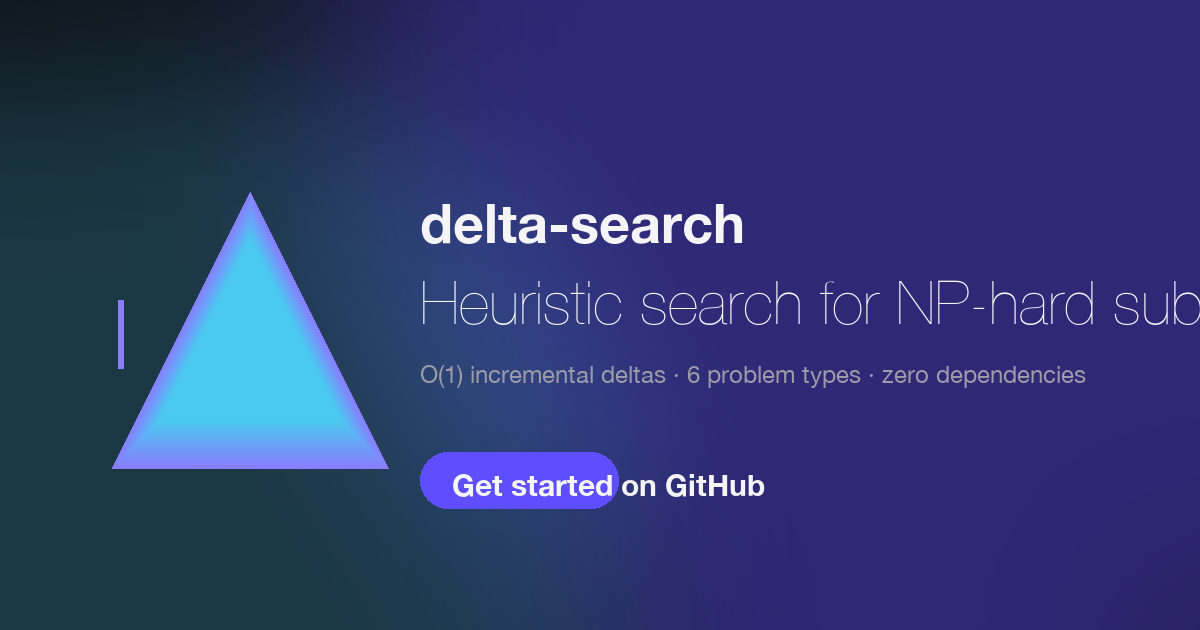
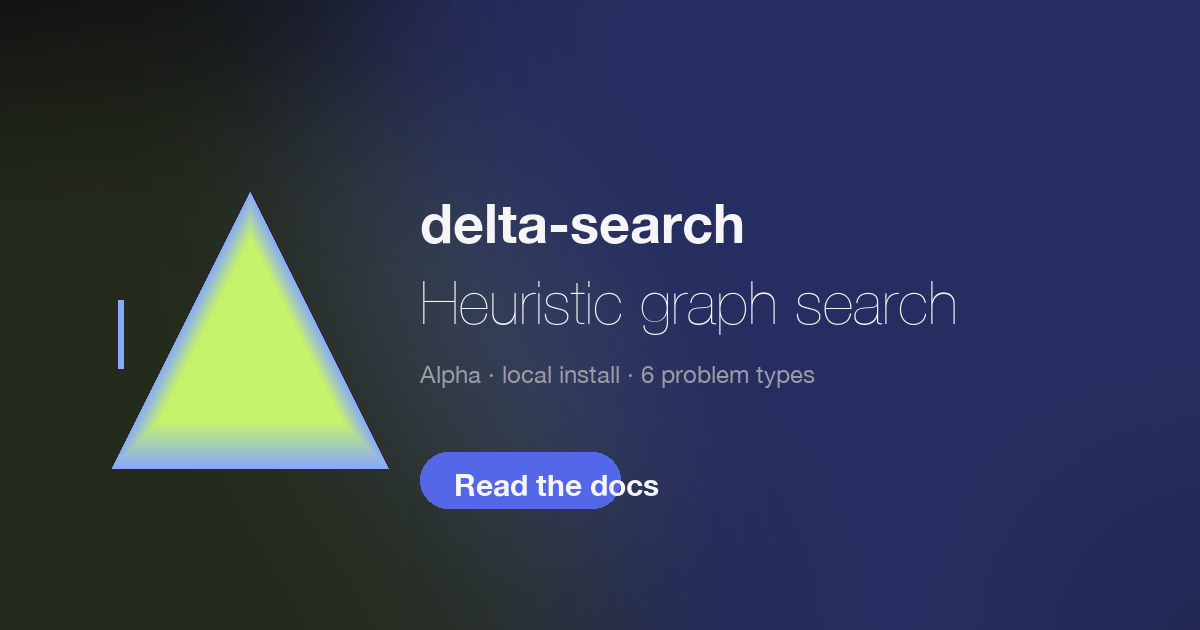
chore(site): refresh generated alpha visuals

diff --git a/site/scripts/generate_assets.py b/site/scripts/generate_assets.py
@@ -27,6 +27,11 @@ import matplotlib.pyplot as plt
 from matplotlib.patches import Circle
 from PIL import Image, ImageDraw, ImageFilter, ImageFont
 
+try:
+    import networkx as nx
+except ImportError:  # pragma: no cover - asset generation has an optional path
+    nx = None
+
 from delta_search import (
     Action,
     DefaultState,
@@ -49,8 +54,8 @@ VIOLET = "#5367E8"
 CYAN = "#B8F36B"
 EDGE_INPUT = "#2A2A34"
 NODE_INPUT = "#202028"
-EDGE_SOLUTION = "#6E8CFF"
-NODE_SOLUTION = "#A8A0FF"
+EDGE_SOLUTION = "#88A0FF"
+NODE_SOLUTION = "#C5F36C"
 
 plt.rcParams.update(
     {
@@ -74,7 +79,8 @@ class PlanarDemoProblem(MaximumPlanarSubgraphProblem):
 
     The stock implementation seeds an empty subgraph for this monotone
     (edge-add-only) problem; for the demo we seed all vertices and let
-    the solver select a maximum-edge planar subgraph on top of them.
+    the solver select a maximum-edge subgraph screened by the repository's
+    Euler-bound feasibility heuristic.
     """
 
     def evaluate_initial_state(self, graph: Graph[int]) -> DefaultState[int]:
@@ -180,6 +186,66 @@ def force_layout(
     }
 
 
+def representative_edges(
+    graph: Graph[int], extra_edges: int = 42
+) -> set[frozenset[int]]:
+    """Return a readable, connected sample of a solved graph's edges.
+
+    A 62-node planar solution can contain 180 edges. Drawing all of them makes
+    the marketing image a hairball, so the image shows a spanning forest plus a
+    deterministic sample of additional retained edges. The solve itself is not
+    truncated; this is only a presentation view.
+    """
+    selected: set[frozenset[int]] = set()
+    visited: set[int] = set()
+
+    for root in sorted(graph.nodes):
+        if root in visited:
+            continue
+        visited.add(root)
+        queue = [root]
+        while queue:
+            node = queue.pop(0)
+            for neighbor in sorted(graph.neighbors(node)):
+                if neighbor in visited:
+                    continue
+                visited.add(neighbor)
+                queue.append(neighbor)
+                selected.add(frozenset((node, neighbor)))
+
+    remaining = [
+        frozenset((u, v))
+        for u, v in graph.sorted_edges()
+        if frozenset((u, v)) not in selected
+    ]
+    selected.update(remaining[:extra_edges])
+    return selected
+
+
+def solution_layout(
+    solution: Graph[int], seed: int = 3
+) -> dict[int, tuple[float, float]]:
+    """Prefer a planar embedding, with a deterministic force fallback."""
+    if nx is not None:
+        nx_graph = nx.Graph()
+        nx_graph.add_nodes_from(solution.nodes)
+        nx_graph.add_edges_from(solution.sorted_edges())
+        if nx.check_planarity(nx_graph)[0]:
+            raw = nx.planar_layout(nx_graph, scale=1.0)
+            xs = [float(raw[node][0]) for node in solution.nodes]
+            ys = [float(raw[node][1]) for node in solution.nodes]
+            x_min, x_max = min(xs), max(xs)
+            y_min, y_max = min(ys), max(ys)
+            return {
+                node: (
+                    (float(raw[node][0]) - x_min) / max(x_max - x_min, 1e-9),
+                    1 - (float(raw[node][1]) - y_min) / max(y_max - y_min, 1e-9),
+                )
+                for node in solution.nodes
+            }
+    return force_layout(solution, seed=seed, iters=1200)
+
+
 # --- 3. render the solved graph --------------------------------------------
 def render_graph(
     graph: Graph[int], solution: Graph[int], pos: dict[int, tuple[float, float]]
@@ -193,12 +259,19 @@ def render_graph(
 
     sol_nodes = set(solution.nodes)
     sol_edges = {frozenset((u, v)) for u, v in solution.sorted_edges()}
+    display_edges = representative_edges(solution)
+    candidate_edges = [
+        frozenset((u, v))
+        for u, v in graph.sorted_edges()
+        if frozenset((u, v)) not in sol_edges
+    ]
+    display_edges.update(candidate_edges[:24])
 
     for u in graph.nodes:
         if u not in pos:
             continue
         x, y = pos[u]
-        glow = Circle((x, y), 0.028, facecolor=NODE_SOLUTION, alpha=0.16, zorder=1)
+        glow = Circle((x, y), 0.018, facecolor=NODE_SOLUTION, alpha=0.08, zorder=1)
         ax.add_patch(glow)
 
     for u in graph.nodes:
@@ -209,12 +282,15 @@ def render_graph(
                 continue
             if u not in pos:
                 continue
+            edge_key = frozenset((u, v))
+            if edge_key not in display_edges:
+                continue
             x1, y1 = pos[u]
             x2, y2 = pos[v]
-            in_sol = frozenset((u, v)) in sol_edges
+            in_sol = edge_key in sol_edges
             color = EDGE_SOLUTION if in_sol else EDGE_INPUT
-            alpha = 0.95 if in_sol else 0.5
-            lw = 2.0 if in_sol else 0.9
+            alpha = 0.78 if in_sol else 0.22
+            lw = 1.5 if in_sol else 0.7
             zorder = 4 if in_sol else 0
             ax.plot(
                 [x1, x2],
@@ -335,10 +411,10 @@ def radial_glow(
 def make_og() -> None:
     width, height = 1200, 630
     bg = Image.new("RGB", (width, height), (11, 11, 15))
-    purple = radial_glow((width, height), (width - 300, 140), 560, (94, 78, 255), 110)
-    cyan = radial_glow((width, height), (160, height - 120), 460, (76, 201, 240), 60)
-    bg.paste(purple, (0, 0), purple)
-    bg.paste(cyan, (0, 0), cyan)
+    blue = radial_glow((width, height), (width - 300, 140), 560, (83, 103, 232), 95)
+    lime = radial_glow((width, height), (160, height - 120), 460, (197, 243, 108), 34)
+    bg.paste(blue, (0, 0), blue)
+    bg.paste(lime, (0, 0), lime)
 
     draw = ImageDraw.Draw(bg, "RGBA")
 
@@ -367,49 +443,51 @@ def make_og() -> None:
             x2 = cx
             y2 = cy - size + inset
             top = (
-                int(138 + (76 - 138) * t),
-                int(124 + (201 - 124) * t),
-                int(255 + (240 - 255) * t),
+                int(136 + (197 - 136) * t),
+                int(168 + (243 - 168) * t),
+                int(255 + (108 - 255) * t),
             )
             draw.polygon([(x0, y0), (x1, y1), (x2, y2)], fill=(*top, 255))
 
     draw_delta(draw, 250, 330, 138)
-    draw.line([(120, 300), (120, 368)], fill=(138, 124, 255, 255), width=6)
+    draw.line([(120, 300), (120, 368)], fill=(136, 168, 255, 255), width=6)
 
     draw.text((420, 190), "delta-search", font=font_bold, fill=(245, 245, 247, 255))
     draw.text(
         (420, 268),
-        "Heuristic search for NP-hard subgraph extraction",
+        "Heuristic graph search",
         font=font_ultra,
         fill=(245, 245, 247, 255),
     )
     draw.text(
         (420, 360),
-        "O(1) incremental deltas \u00b7 6 problem types \u00b7 zero dependencies",
+        "Alpha \u00b7 local install \u00b7 6 problem types",
         font=font_light,
         fill=(154, 155, 166, 255),
     )
 
-    pill = (94, 78, 255, 255)
-    px1, py1, px2, py2 = 420, 452, 618, 508
+    pill = (83, 103, 232, 255)
+    px1, py1, px2, py2 = 420, 452, 620, 508
     draw.rounded_rectangle([px1, py1, px2, py2], radius=28, fill=pill)
-    draw.text(
-        (452, 466), "Get started on GitHub", font=font_med, fill=(245, 245, 247, 255)
-    )
+    draw.text((454, 466), "Read the docs", font=font_med, fill=(245, 245, 247, 255))
 
     bg.save(ASSETS / "og.png")
+    bg.save(Path(__file__).resolve().parents[2] / ".github/assets/social-preview.png")
 
 
 def main() -> None:
     graph = build_input_graph()
     solution, objectives, iterations = solve_mps(graph)
-    pos = force_layout(graph)
+    # Layout the retained solution first. The input graph can be dense;
+    # using it as the layout makes the result read as a hairball instead of a
+    # solution. Candidate edges still render faintly on the same coordinates.
+    pos = solution_layout(solution)
     render_graph(graph, solution, pos)
     render_convergence(iterations, objectives)
     make_og()
     print(
         f"solved: {graph.num_nodes} nodes / {graph.num_edges} edges -> "
-        f"{solution.num_edges} retained edges (planar cap {solve_cap(solution.num_nodes)})"
+        f"{solution.num_edges} retained edges (Euler cap {solve_cap(solution.num_nodes)})"
     )
     print(
         f"convergence: {len(iterations)} iterations tracked, final objective {objectives[-1]:.1f}"
